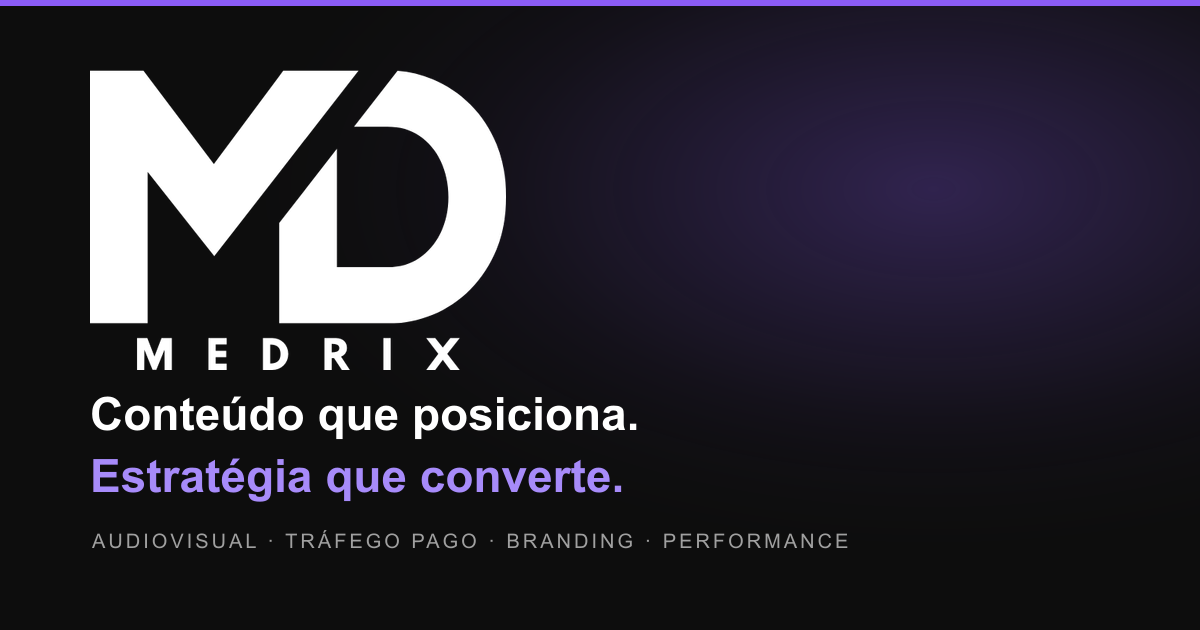
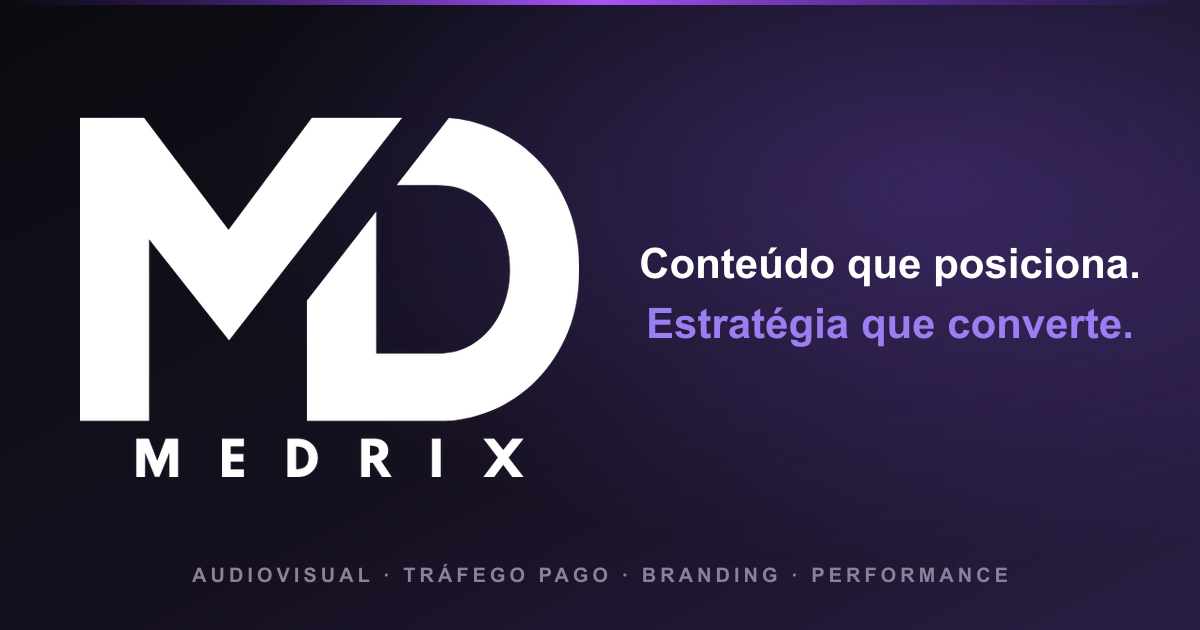
feat: melhorias de UX mobile + nova OG image
Mobile:
- viewport explicito (device-width, initial-scale 1, maximum-scale 1) -> zoom fixo
- overflow-x: clip como rede de seguranca contra estouro horizontal
- StatsBar: dividers que respeitam o grid 2x2 (remove o traco solto a esquerda do ∞)
- Services: touch-action pan-y (navegador para de roubar o gesto) + glide mais suave
- Works/CircularGallery: radius 520->410 e responsivo (300 mobile / 360 tablet),
  arrasto 0.12->0.26 graus/px e touch-action pan-y -> mais leve e fluido

OG image:
- novo layout: logo grande a esquerda | tagline centralizada a direita | servicos embaixo
- gerador versionado em scripts/build-og.mjs

diff --git a/components/ui/circular-gallery.tsx b/components/ui/circular-gallery.tsx
@@ -34,6 +34,20 @@ const CircularGallery = React.forwardRef<HTMLDivElement, CircularGalleryProps>(
     const rafRef = useRef<number | null>(null)
     const containerRef = useRef<HTMLDivElement | null>(null)
 
+    // Drag sensitivity (deg per px). Higher = lighter / easier to spin.
+    const DRAG = 0.26
+
+    // Pull the cards closer together on smaller screens (smaller radius =
+    // tighter cylinder). `radius` prop is the desktop value.
+    const [viewW, setViewW] = useState(1280)
+    useEffect(() => {
+      const update = () => setViewW(window.innerWidth)
+      update()
+      window.addEventListener('resize', update)
+      return () => window.removeEventListener('resize', update)
+    }, [])
+    const effRadius = viewW < 640 ? 300 : viewW < 1024 ? 360 : radius
+
     useEffect(() => {
       const tick = () => {
         if (!isDragging.current) {
@@ -68,11 +82,11 @@ const CircularGallery = React.forwardRef<HTMLDivElement, CircularGalleryProps>(
       const now = performance.now()
       const dt = now - lastDragTime.current
       const dx = e.clientX - lastX.current
-      if (dt > 0) velocityRef.current = (dx / dt) * 16 * 0.12
+      if (dt > 0) velocityRef.current = (dx / dt) * 16 * DRAG
       lastX.current = e.clientX
       lastDragX.current = e.clientX
       lastDragTime.current = now
-      rotationRef.current += dx * 0.12
+      rotationRef.current += dx * DRAG
     }
 
     const onPointerUp = () => {
@@ -89,7 +103,7 @@ const CircularGallery = React.forwardRef<HTMLDivElement, CircularGalleryProps>(
           else if (ref) ref.current = node
         }}
         className={cn('relative w-full h-full flex items-center justify-center select-none', className)}
-        style={{ perspective: '2000px', cursor: isDragging.current ? 'grabbing' : 'grab' }}
+        style={{ perspective: '2000px', cursor: isDragging.current ? 'grabbing' : 'grab', touchAction: 'pan-y' }}
         onPointerDown={onPointerDown}
         onPointerMove={onPointerMove}
         onPointerUp={onPointerUp}
@@ -112,7 +126,7 @@ const CircularGallery = React.forwardRef<HTMLDivElement, CircularGalleryProps>(
                 key={`${item.title}-${i}`}
                 className="absolute w-[260px] h-[360px] pointer-events-none"
                 style={{
-                  transform: `rotateY(${itemAngle}deg) translateZ(${radius}px)`,
+                  transform: `rotateY(${itemAngle}deg) translateZ(${effRadius}px)`,
                   left: '50%',
                   top: '50%',
                   marginLeft: '-130px',

diff --git a/app/layout.tsx b/app/layout.tsx
@@ -1,4 +1,4 @@
-import type { Metadata } from 'next'
+import type { Metadata, Viewport } from 'next'
 import { Inter, Syne } from 'next/font/google'
 import './globals.css'
 import MotionProvider from '@/components/providers/MotionProvider'
@@ -15,6 +15,12 @@ const syne = Syne({
   weight: ['700', '800'],
   display: 'swap',
 })
+
+export const viewport: Viewport = {
+  width: 'device-width',
+  initialScale: 1,
+  maximumScale: 1,
+}
 
 export const metadata: Metadata = {
   title: 'Medrix | Agência de Marketing Estratégico com Audiovisual',

diff --git a/components/sections/Services.tsx b/components/sections/Services.tsx
@@ -49,7 +49,7 @@ export default function Services() {
         // apply momentum after drag
         if (Math.abs(velocityRef.current) > 0.1) {
           posRef.current += velocityRef.current
-          velocityRef.current *= 0.95
+          velocityRef.current *= 0.96
         } else {
           velocityRef.current = 0
           posRef.current += SPEED
@@ -125,7 +125,7 @@ export default function Services() {
         <div
           ref={trackRef}
           className="flex gap-5 will-change-transform select-none"
-          style={{ width: 'max-content', cursor: 'grab' }}
+          style={{ width: 'max-content', cursor: 'grab', touchAction: 'pan-y' }}
         >
           {DUPLICATED.map((service, i) => (
             <div

diff --git a/app/globals.css b/app/globals.css
@@ -11,6 +11,9 @@
 
 html {
   scroll-behavior: smooth;
+  /* Safety net against horizontal overflow from full-bleed decorative elements.
+     `clip` (not `hidden`) keeps position: sticky/fixed working. */
+  overflow-x: clip;
 }
 
 /* Reduced-motion safety net: kill smooth scroll, CSS animations and transitions

diff --git a/components/sections/StatsBar.tsx b/components/sections/StatsBar.tsx
@@ -62,7 +62,7 @@ export default function StatsBar() {
           initial={{ opacity: 0, y: 20 }}
           animate={inView ? { opacity: 1, y: 0 } : {}}
           transition={{ duration: 0.6 }}
-          className="grid grid-cols-2 lg:grid-cols-4 divide-x divide-border"
+          className="grid grid-cols-2 lg:grid-cols-4 [&>*]:border-border [&>*:nth-child(even)]:border-l lg:[&>*:nth-child(odd)]:border-l lg:[&>*:nth-child(4n+1)]:border-l-0"
         >
           {STATS.map((stat) => (
             <StatItem key={stat.label} {...stat} inView={inView} />

diff --git a/components/sections/Works.tsx b/components/sections/Works.tsx
@@ -103,7 +103,7 @@ export default function Works() {
       </div>
 
       <div className="relative z-10 w-full mt-10" style={{ height: '520px' }}>
-        <CircularGallery items={WORKS} radius={520} autoRotateSpeed={0.018} className="w-full h-full" />
+        <CircularGallery items={WORKS} radius={410} autoRotateSpeed={0.018} className="w-full h-full" />
       </div>
     </section>
   )